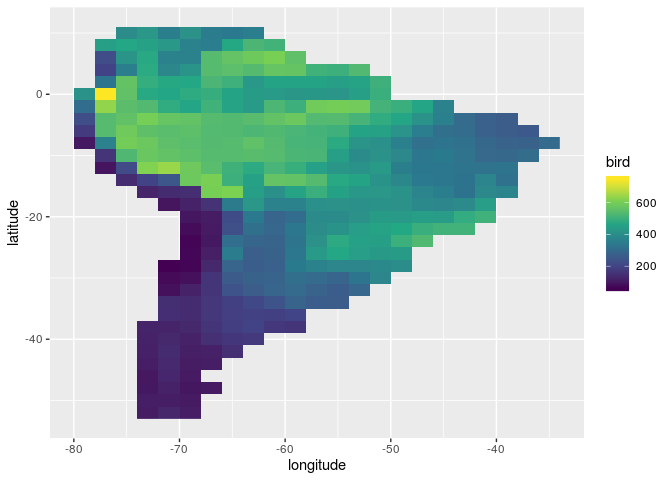
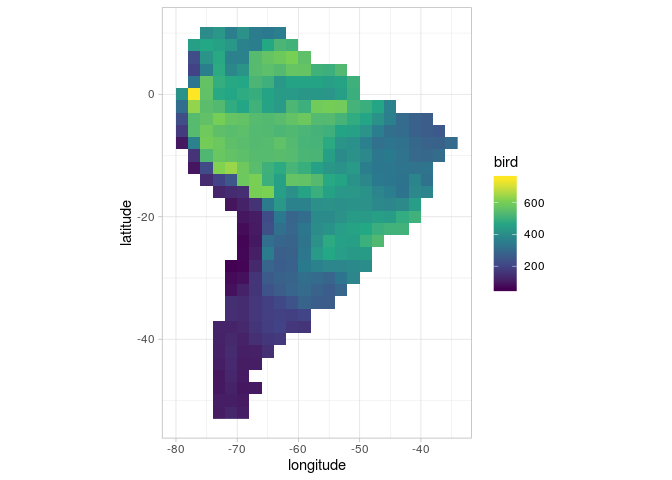
update geom raster

diff --git a/r/ggplot_geom_raster-and-facet_wrap-with-scale-free.md b/r/ggplot_geom_raster-and-facet_wrap-with-scale-free.md
@@ -34,6 +34,8 @@ ipak(
 ```
 
 ```r
+theme_set(theme_light())
+
 df <- tibble::tribble(
   ~longitude, ~latitude, ~bird, ~mammal, ~amphibiam,    ~aet,
          -79,        -8,    98,      44,          3,  22.612,
@@ -424,10 +426,14 @@ df <- tibble::tribble(
 df %>% 
   ggplot(aes(x = longitude, y = latitude)) +
   geom_raster(aes(fill = bird)) +
-  scale_fill_viridis_c()
+  scale_fill_viridis_c() +
+  coord_equal()
 ```
 
 ![](ggplot_geom_raster-and-facet_wrap-with-scale-free_files/figure-html/unnamed-chunk-1-1.png)<!-- -->
+
+A amplitude da variável `bird` determina os valores da legenda para todos os gráficos
+
 
 ```r
 df %>% 
@@ -438,16 +444,21 @@ df %>%
   ggplot(aes(x = longitude, y = latitude)) +
   geom_raster(aes(fill = value)) +
   scale_fill_viridis_c() +
-  facet_wrap(~variable)
+  facet_wrap(~variable) +
+  coord_equal()
 ```
 
-![](ggplot_geom_raster-and-facet_wrap-with-scale-free_files/figure-html/unnamed-chunk-1-2.png)<!-- -->
+![](ggplot_geom_raster-and-facet_wrap-with-scale-free_files/figure-html/unnamed-chunk-2-1.png)<!-- -->
+
+Isso resolve o problema anterior
+
 
 ```r
 plot_func <- function(df, name) {
   ggplot(data = df, aes(x = longitude, y = latitude, fill = value)) +
     geom_tile() +
-    scale_fill_viridis_c(name = name)
+    scale_fill_viridis_c(name = name) +
+    coord_equal()
 }
 
 nested_tmp <- df %>% 
@@ -476,34 +487,34 @@ nested_tmp$plots
 ## [[1]]
 ```
 
-![](ggplot_geom_raster-and-facet_wrap-with-scale-free_files/figure-html/unnamed-chunk-1-3.png)<!-- -->
+![](ggplot_geom_raster-and-facet_wrap-with-scale-free_files/figure-html/unnamed-chunk-3-1.png)<!-- -->
 
 ```
 ## 
 ## [[2]]
 ```
 
-![](ggplot_geom_raster-and-facet_wrap-with-scale-free_files/figure-html/unnamed-chunk-1-4.png)<!-- -->
+![](ggplot_geom_raster-and-facet_wrap-with-scale-free_files/figure-html/unnamed-chunk-3-2.png)<!-- -->
 
 ```
 ## 
 ## [[3]]
 ```
 
-![](ggplot_geom_raster-and-facet_wrap-with-scale-free_files/figure-html/unnamed-chunk-1-5.png)<!-- -->
+![](ggplot_geom_raster-and-facet_wrap-with-scale-free_files/figure-html/unnamed-chunk-3-3.png)<!-- -->
 
 ```
 ## 
 ## [[4]]
 ```
 
-![](ggplot_geom_raster-and-facet_wrap-with-scale-free_files/figure-html/unnamed-chunk-1-6.png)<!-- -->
+![](ggplot_geom_raster-and-facet_wrap-with-scale-free_files/figure-html/unnamed-chunk-3-4.png)<!-- -->
 
 ```r
 grid.arrange(grobs = nested_tmp$plots)
 ```
 
-![](ggplot_geom_raster-and-facet_wrap-with-scale-free_files/figure-html/unnamed-chunk-1-7.png)<!-- -->
+![](ggplot_geom_raster-and-facet_wrap-with-scale-free_files/figure-html/unnamed-chunk-3-5.png)<!-- -->
 
 
 ---
